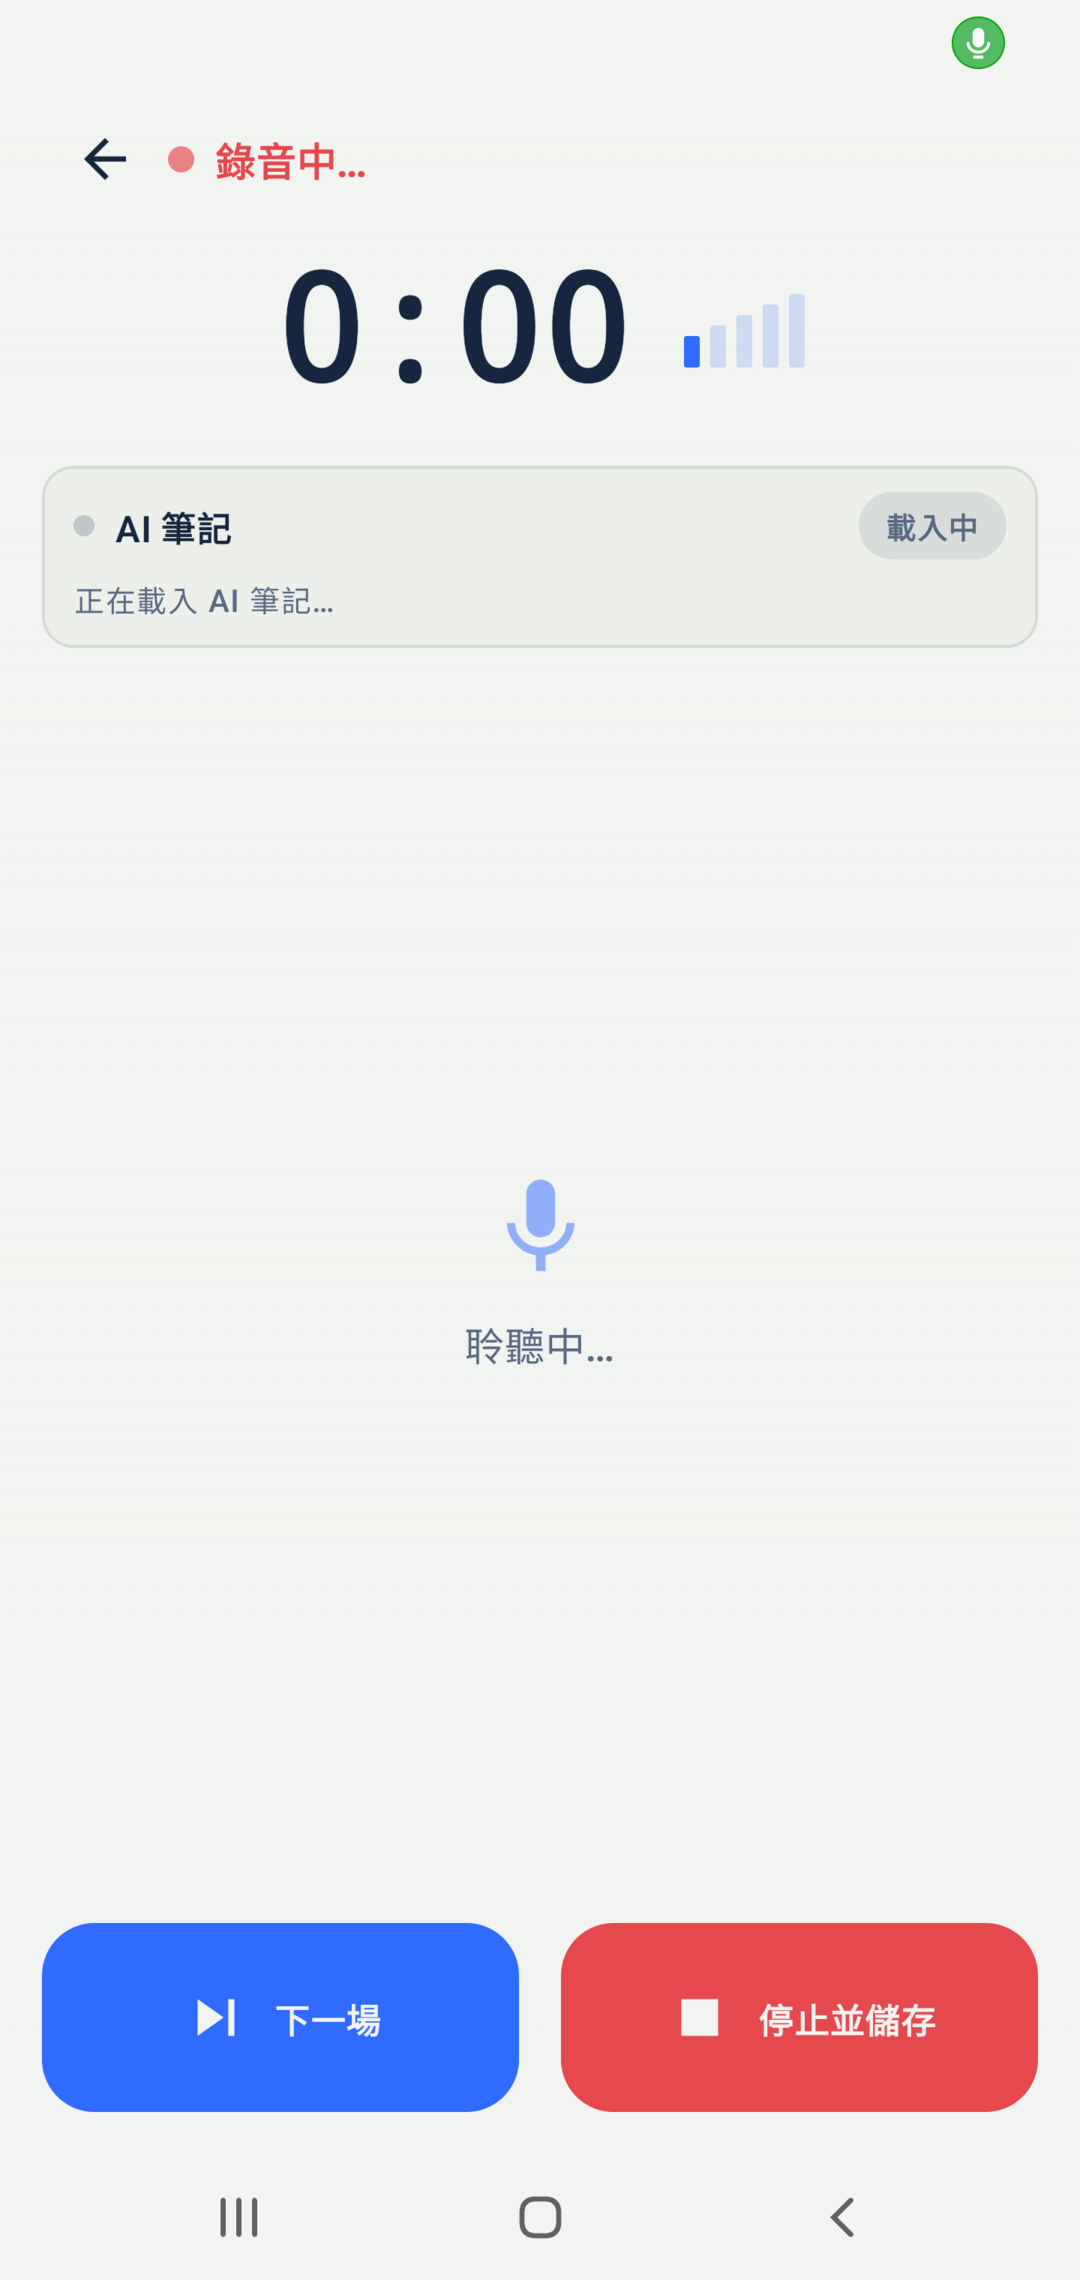
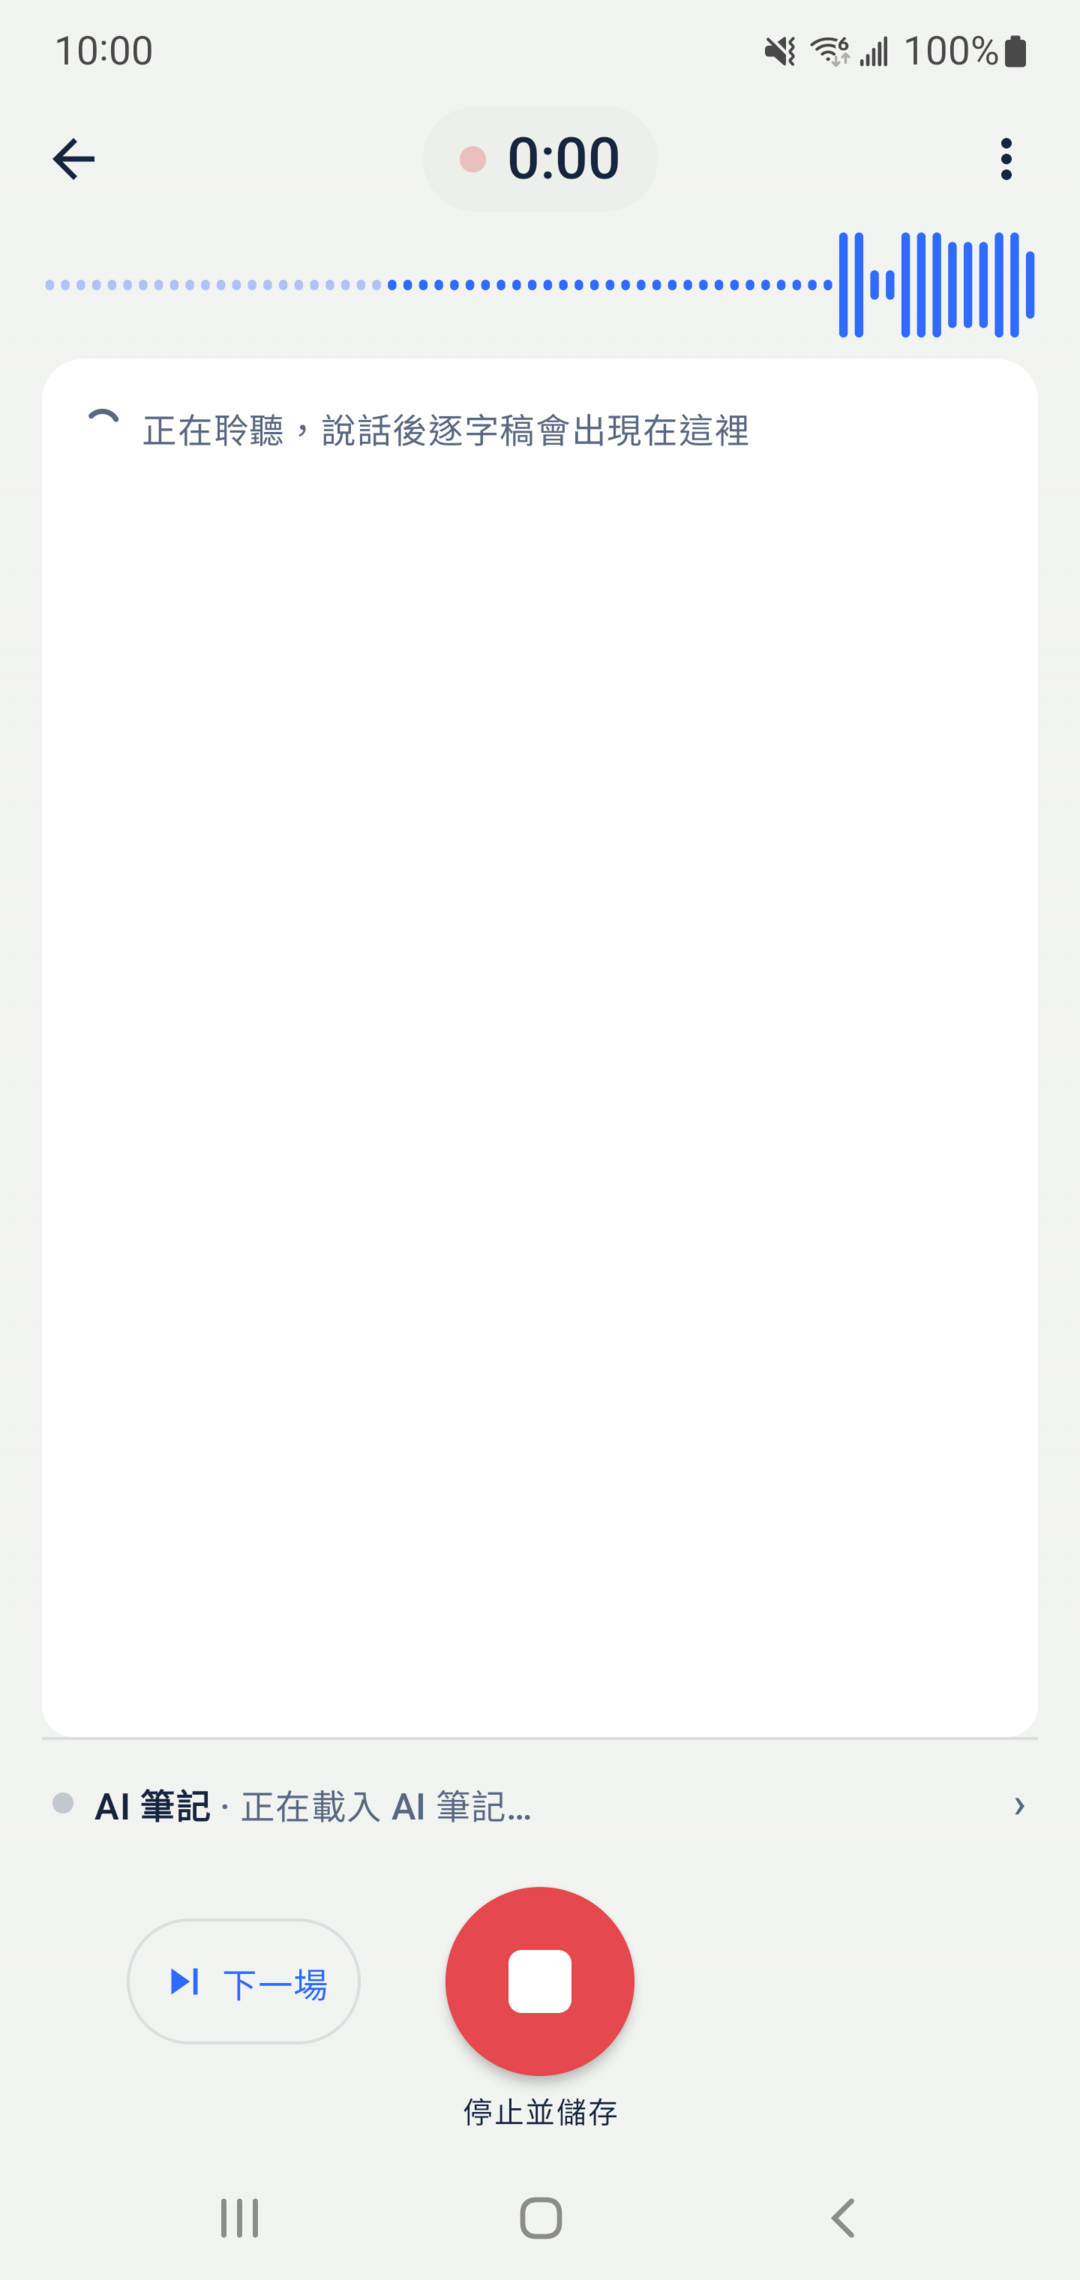
media(android): reshoot recording-screen media for the capture redesign
Guide tiles 24/24b/24c, README quick-start tile, live-notes GIF and the
Note10+ studio demo now show the redesigned recording screen (pill timer,
waveform, top-aligned transcript, notes strip, round stop). USER_GUIDE
section 5 and its table describe the new layout, warnings and the
Show performance info menu item.

diff --git a/docs/USER_GUIDE.md b/docs/USER_GUIDE.md
@@ -225,18 +225,18 @@ App 不登入任何帳號，也不直接上傳到雲端。
 
 ## 5. 錄音室
 
-<img src="guide/24b-capture-live.png" width="270" alt="錄音室"> <img src="guide/24-capture.png" width="270" alt="錄音室，模型載入中"> <img src="guide/24c-first-reading.png" width="270" alt="第一次閱讀約在 6 分鐘後">
+<img src="guide/24b-capture-live.png" width="270" alt="錄音室"> <img src="guide/24-capture.png" width="270" alt="錄音室，模型載入中"> <img src="guide/24c-first-reading.png" width="270" alt="第一次閱讀倒數">
 
-逐字稿在說話後依設定的轉寫延遲出現（預設約 2 秒，見第 9 節）；語者確定後標上顏色，尚未確定的句子為淺灰。上方 **AI 筆記** 卡片顯示它正在閱讀逐字稿或正在寫筆記（正在寫的筆記逐字出現）。AI 筆記每讀滿一段逐字稿（約 1,500 個詞元）才寫一批，所以第一則筆記要等幾分鐘才出現（示範會議約在第 6 分鐘），這是正常的：第一次閱讀前，卡片顯示「進度條滿時開始第一次閱讀」，錄音約一分鐘後依目前的說話速度改為「第一次閱讀約在 N 分鐘後」，下方的細條是這一段逐字稿已累積的量；提早停止錄音的話，筆記在停止後才寫（卡片上也這樣提示）。標題列右側的細條是硬體狀態列（CPU、記憶體、電池；「BAT +」表示充電中），數值過高時轉紅，可在設定中關閉。RAM 8 GB 以上的手機在錄音中同步閱讀；較小的手機在錄音結束後閱讀。第一次錄音時，模型下載的進度也顯示在這裡，麥克風在下載期間已開始錄音；下載後 AI 筆記模型會準備一次（「正在準備…（僅首次，約一分鐘）」）。
+畫面上方中間的小膠囊顯示紅點與已錄時間（模型還在載入時改顯示目前狀態），下方是隨聲音捲動的波形。逐字稿從畫面頂端往下長，在說話後依設定的轉寫延遲出現（預設約 2 秒，見第 9 節）；語者確定後標上顏色標籤，尚未確定的句子為淺灰。往上捲回去看時畫面不會被拉走，按「最新」回到最下面。逐字稿下方的 **AI 筆記** 列顯示它正在閱讀逐字稿或正在寫筆記；有了筆記後變成卡片，列出最新三則，點一下打開 AI 筆記面板看完整過程。AI 筆記每讀滿一段逐字稿（約 1,500 個詞元）才寫一批，所以第一則筆記要等幾分鐘才出現（示範會議約在第 6 分鐘），這是正常的：第一次閱讀前顯示「幾分鐘後開始整理」，錄音約一分鐘後依目前的說話速度改為「第一次閱讀約在 N 分鐘後」；提早停止錄音的話，筆記在停止後才寫。手機過熱、記憶體或電量不足、處理器滿載、儲存空間不到 500 MB 或麥克風被其他 App 中斷時，畫面上方會出現一行提醒；CPU、記憶體、電池數值平常不顯示，有提醒時才出現，也可從右上角 ⋮ →「顯示效能資訊」一直顯示。RAM 8 GB 以上的手機在錄音中同步閱讀；較小的手機在錄音結束後閱讀。第一次錄音時，模型下載的進度也顯示在這裡，麥克風在下載期間已開始錄音；下載後 AI 筆記模型會準備一次（「正在準備…（僅首次，約一分鐘）」）。
 
 | 節點 | 如何到達 | 預期結果 | 驗證 |
 |---|---|---|---|
-| 計時器與音量條 | 錄音中 | 時間遞增，音量條隨聲音跳動 | ✅ 手動 |
-| 硬體狀態列 | 錄音中；處理中的會議畫面 | 錄音時在標題列右側，處理時在進度條上方的狀態列右側，每 2 秒更新；閒置、首頁與已完成的會議不顯示；關閉設定後隱藏 | ✅ 手動（Note 10+） |
-| 即時逐字稿 | 錄音中 | 文字即時出現，語者依序上色 | ✅ 手動（模擬器、Note 10+） |
-| AI 筆記卡片 | 錄音中（8 GB 以上） | 閱讀逐字稿 → 整理筆記中，筆記逐字出現 | ✅ 手動 |
+| 計時膠囊與波形 | 錄音中 | 膠囊內時間遞增、紅點閃動，波形隨聲音捲動 | ✅ 手動 |
+| 提醒與效能資訊 | 錄音中；處理中的會議畫面 | 過熱、記憶體、電量、處理器、儲存空間或麥克風有狀況時出現一行提醒，CPU／記憶體／電池數值同時顯示（保留 30 秒）；⋮ →「顯示效能資訊」可一直顯示；處理時在進度條上方的狀態列右側 | ✅ 手動（Note 10+） |
+| 即時逐字稿 | 錄音中 | 文字從頂端往下即時出現，語者標籤依序上色；往上捲時不跟隨，「最新」回到最下面 | ✅ 手動（模擬器、Note 10+） |
+| AI 筆記列 | 錄音中（8 GB 以上） | 閱讀逐字稿 → 整理筆記中；有筆記後顯示最新三則，點一下打開 AI 筆記面板 | ✅ 手動 |
 | 下一場 | 錄音中 | 存檔並立刻開始下一場；前一場自動處理 | ✅ 手動 |
-| 停止並儲存 | 錄音中 | 存檔並開啟場次；AI 筆記讀完最後一段後寫摘要 | ✅ 手動 |
+| 停止並儲存 | 錄音中，下方紅色圓鈕 | 存檔並開啟場次；AI 筆記讀完最後一段後寫摘要 | ✅ 手動 |
 | 返回 | 左上 | 回首頁，錄音不中斷 | ✅ 手動 |
 | 錄音失敗 | 例如語音引擎無法載入 | 顯示錯誤並回到首頁；已錄的音訊保留在「處理待辦」 | ✅ 手動（Note 10+，修正前後） |
 
@@ -354,7 +354,7 @@ App 不登入任何帳號，也不直接上傳到雲端。
 | 外觀主題：自動／淺色／深色／電子紙 | 立即套用 | ✅ 自動（SettingsContentTest） |
 | 桌布配色（Material You） | Android 12 以上可開啟，依桌布換色；電子紙主題不提供 | ✅ 手動 |
 | 文字大小（85–150%） | 整個 App 的文字（含對話框）立即放大或縮小，疊加於系統字型大小；重新開啟 App 後保留 | ✅ 手動 |
-| 硬體狀態列 | 錄音時在錄音室標題列右側、處理時在會議畫面的狀態列右側顯示 CPU／記憶體／電池細條；數值過高時轉紅；預設開啟 | ✅ 手動 |
+| 硬體狀態列 | 處理時在會議畫面的狀態列右側顯示 CPU／記憶體／電池細條，數值過高時轉紅；預設開啟。錄音室平常不顯示，有提醒時或從 ⋮ →「顯示效能資訊」才出現 | ✅ 手動 |
 | 推論：執行緒滑桿（2 至全部核心）與「建議」 | 拖曳滑桿手動指定；「建議」測完 2 至全部核心的執行緒數，自動選用提升不再明顯的最少執行緒數並移動滑桿 | ✅ 手動 |
 | 語言：跟隨系統／English／繁體中文／简体中文 | 介面與產生的文字一起切換 | ✅ 手動、✅ 自動（SettingsContentTest） |
 | 說話者名錄（N 人） | 開啟說話者名錄（第 9a 節） | ✅ 手動（模擬器） |
@@ -437,7 +437,7 @@ Compose 介面測試需在實機上執行（x86_64 模擬器上會出現 “Unab
 
 示範會議為兩場合成會議：尾牙籌備會議與辦公室搬遷會議（各三位語者，約 7 分半，[`docs/demo`](demo)）。動畫與截圖在 Galaxy Note10+ 上錄製（E4B 行動版 v2，淺色主題）。加速的段落在畫面右側標示倍數（×N），其餘為即時。
 
-<p><img src="screenshots/agent-live.gif" width="280" alt="錄音中 AI 筆記即時寫下筆記"><br><sub>錄音進行中（約第 5 分半起），AI 筆記讀完一段逐字稿後逐字寫下筆記（×2）。</sub></p>
+<p><img src="screenshots/agent-live.gif" width="280" alt="錄音中 AI 筆記即時寫下筆記"><br><sub>錄音進行中（約第 7 分起），AI 筆記讀完第一段逐字稿，筆記出現在逐字稿下方的卡片（×2）。</sub></p>
 
 | 語意搜尋 | 向會議提問 |
 |:---:|:---:|
